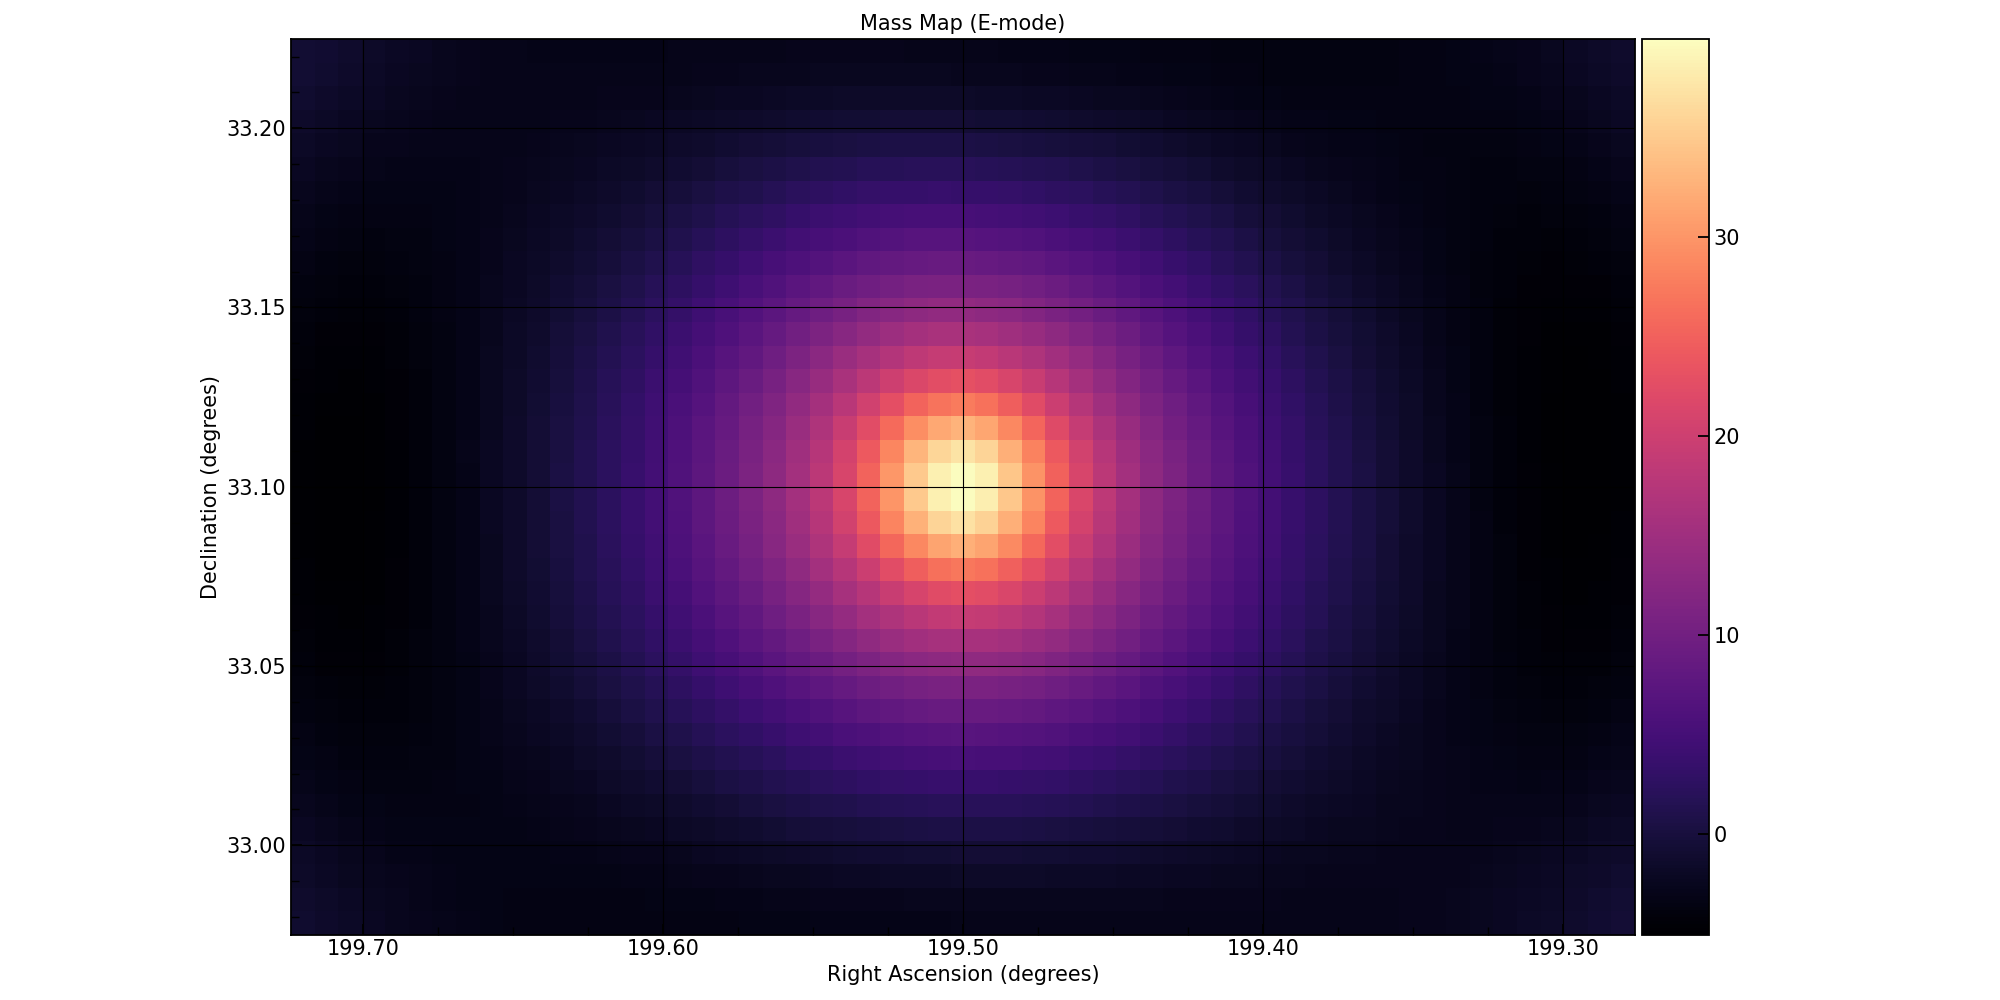
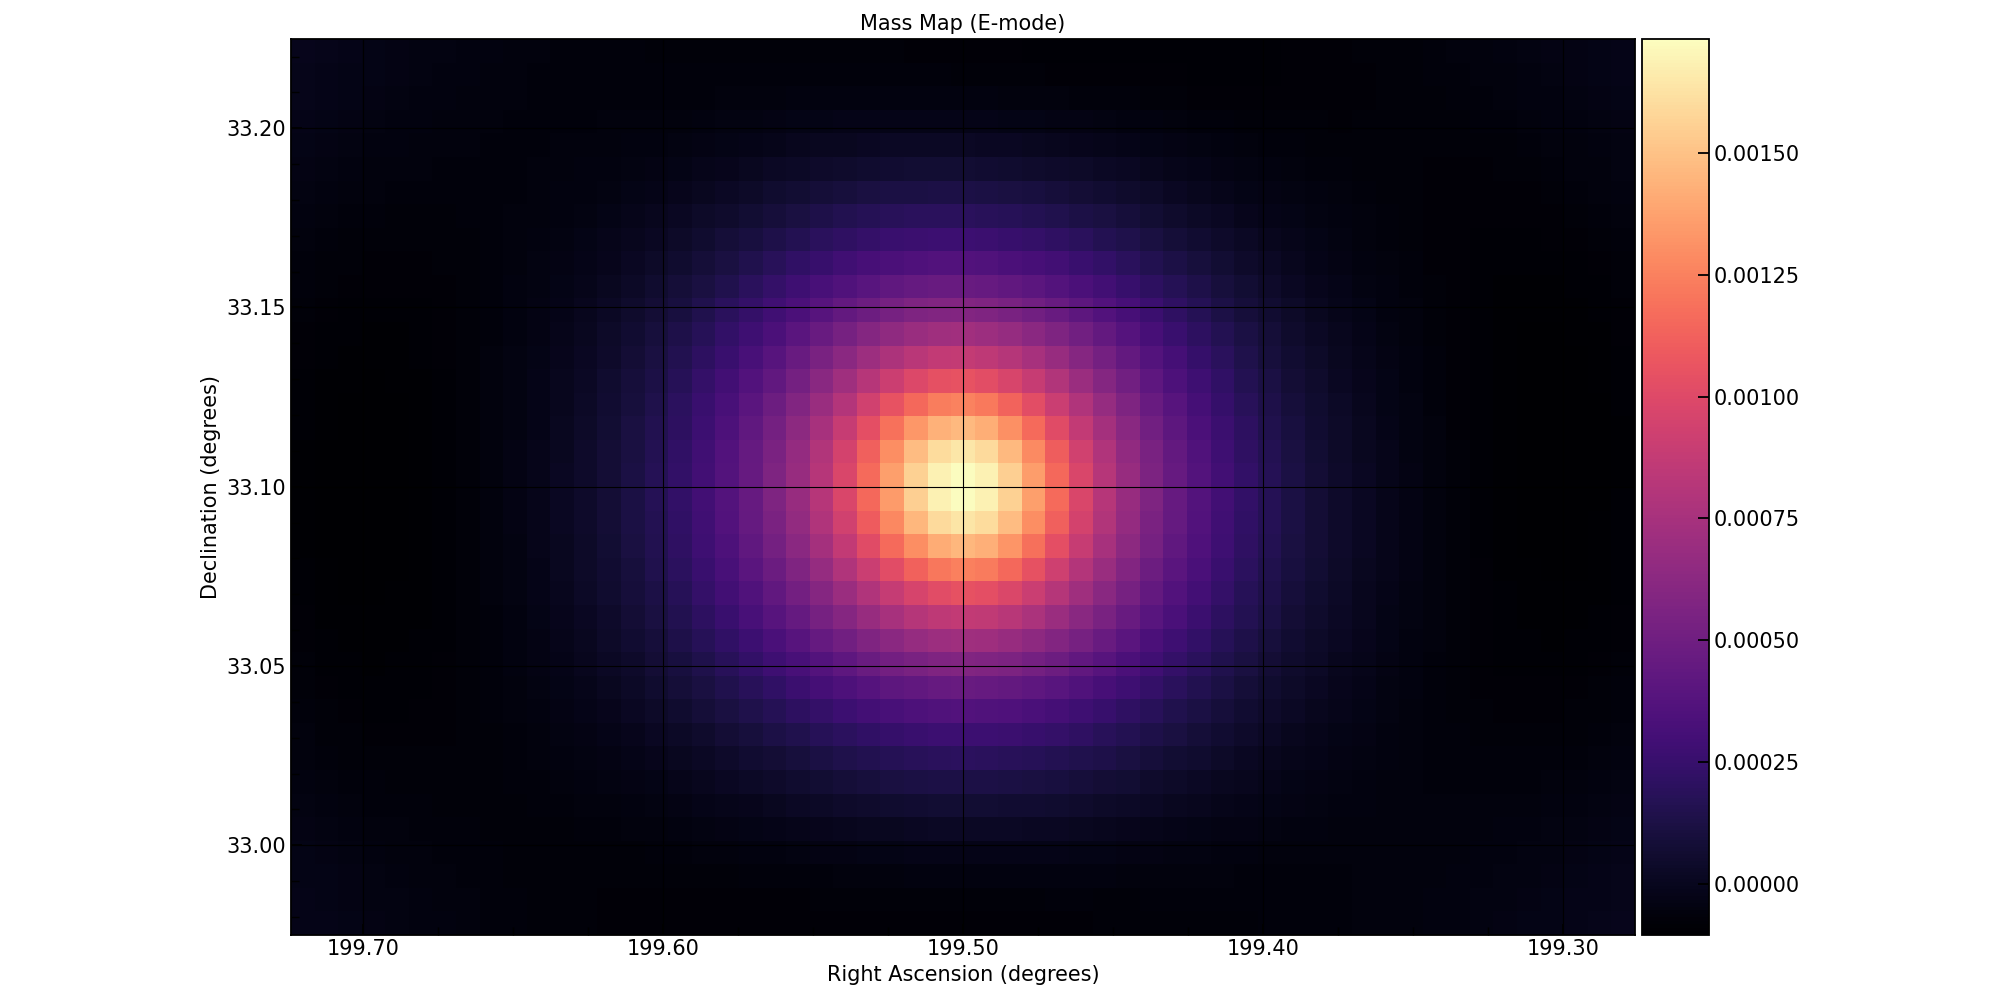
Kernelize aperture mass to decrease computation from O(N^4) to O(N^2 logN)

diff --git a/smpy/mapping_methods/aperture_mass/aperture_mass.py b/smpy/mapping_methods/aperture_mass/aperture_mass.py
@@ -3,6 +3,7 @@
 import numpy as np
 from smpy.mapping_methods.base import MassMapper
 from smpy.filters.processing import schirmer_filter, schneider_filter
+from scipy.ndimage import convolve
 
 class ApertureMassMapper(MassMapper):
     """Implementation of aperture mass mapping using configurable filters.
@@ -16,8 +17,59 @@ class ApertureMassMapper(MassMapper):
         """Name of the mapping method (`str`)."""
         return "aperture_mass"
     
+    def _create_aperture_mass_kernels(self, rs, filter_type, l_param, truncation):
+        """Create the aperture mass convolution kernels.
+        
+        Parameters
+        ----------
+        rs : float
+            Aperture filter radius in pixels
+        filter_type : str
+            Type of filter to use ('schirmer' or 'schneider')
+        l_param : int or None
+            Parameter for Schneider filter (ignored for Schirmer)
+        truncation : float
+            Truncation radius in units of scale radius
+            
+        Returns
+        -------
+        kernel_1, kernel_2 : numpy.ndarray
+            Convolution kernels for E-mode and B-mode calculations:
+            kernel_1 = Q(r/rs) * cos(2*phi)
+            kernel_2 = Q(r/rs) * sin(2*phi)
+        """
+        # Create kernel grid
+        kernel_radius_in_pixels = truncation * rs
+        # Ensure kernel size is odd for a well-defined center pixel
+        size = int(np.ceil(2 * kernel_radius_in_pixels))
+        size = size + 1 if size % 2 == 0 else size
+        
+        # Create a grid of coordinates for the kernel
+        half_extent = (size - 1) / 2.0
+        kernel_coords = np.linspace(-half_extent, half_extent, size)
+        X_k, Y_k = np.meshgrid(kernel_coords, kernel_coords)
+        
+        # Calculate radial distance and polar angle
+        R_k = np.sqrt(X_k**2 + Y_k**2)
+        Phi_k = np.arctan2(Y_k, X_k)
+        
+        # Get scaled radii for filter calculation
+        scaled_radii_k = R_k / rs
+        
+        # Get Q filter values based on filter type
+        if filter_type == 'schneider':
+            q_vals_k = schneider_filter(scaled_radii_k, rs, l_param)
+        else:  # Default to Schirmer
+            q_vals_k = schirmer_filter(scaled_radii_k, rs)
+            
+        # Create the kernels
+        kernel_1 = q_vals_k * np.cos(2 * Phi_k)
+        kernel_2 = q_vals_k * np.sin(2 * Phi_k)
+        
+        return kernel_1, kernel_2
+
     def _compute_aperture_mass(self, g1_grid, g2_grid, rs):
-        """Compute aperture mass maps using the selected filter.
+        """Compute aperture mass maps using the selected filter via convolution.
         
         Parameters
         ----------
@@ -33,46 +85,23 @@ class ApertureMassMapper(MassMapper):
         map_e, map_b : `numpy.ndarray`
             E-mode and B-mode aperture mass maps
         """
-        # Get dimensions
-        ny, nx = g1_grid.shape
-        map_e = np.zeros((ny, nx))
-        map_b = np.zeros((ny, nx))
-        
-        # Select filter function based on config
+        # Get filter configuration
         filter_config = self.config.get('filter', {})
         filter_type = filter_config.get('type', 'schirmer').lower()
+        l_param = filter_config.get('l', 3) if filter_type == 'schneider' else None
+        # Truncation factor for the kernel size
+        truncation = filter_config.get('truncation', 1.0) 
+
+        # Create the aperture mass specific convolution kernels
+        K1, K2 = self._create_aperture_mass_kernels(rs, filter_type, l_param, truncation)
         
-        # Determine if we're using Schneider filter with specific l parameter
-        l = filter_config.get('l', 3) if filter_type == 'schneider' else None
+        # E-mode: Map_E = conv(-g1, K1) + conv(-g2, K2)
+        map_e = convolve(-g1_grid, K1, mode='constant', cval=0.0) + \
+                convolve(-g2_grid, K2, mode='constant', cval=0.0)
         
-        # Compute aperture mass at each position
-        for i in range(ny):
-            for j in range(nx):
-                # Calculate radius to all pixels (scaled by rs)
-                x = abs(np.arange(nx) - j)
-                y = abs(np.arange(ny) - i)
-                X, Y = np.meshgrid(x**2, y**2)
-                radii = np.sqrt(X + Y)
-                scaled_radii = radii / rs
-                
-                # Get filter values using the selected filter
-                if filter_type == 'schneider':
-                    filter_vals = schneider_filter(scaled_radii, rs, l)
-                else:
-                    filter_vals = schirmer_filter(scaled_radii, rs)
-                
-                # Calculate tangential/cross shear components
-                dx = np.arange(nx) - j
-                dy = np.arange(ny)[:, np.newaxis] - i
-                theta = np.arctan2(dy, dx)
-                
-                # Compute tangential and cross components of ellipticity/shear
-                et = -g1_grid * np.cos(2*theta) - g2_grid * np.sin(2*theta)
-                ex = +g1_grid * np.sin(2*theta) - g2_grid * np.cos(2*theta)
-                
-                # Compute aperture mass values
-                map_e[i,j] = np.sum(et * filter_vals)
-                map_b[i,j] = np.sum(ex * filter_vals)
+        # B-mode: Map_B = conv(g1, K2) + conv(-g2, K1)
+        map_b = convolve(g1_grid, K2, mode='constant', cval=0.0) + \
+                convolve(-g2_grid, K1, mode='constant', cval=0.0)
                 
         return map_e, map_b
     
